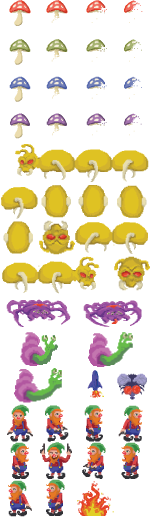
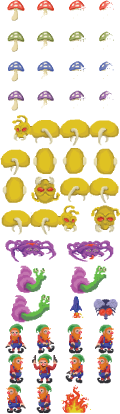
change sprites

diff --git a/App/js/constants/global-settings.js b/App/js/constants/global-settings.js
@@ -1,6 +1,6 @@
 angular.module("gameApp")
     .constant("globalSettings", {
-        spriteSize: 41,
+        spriteSize: 30,
         spriteSheetWidth: 4,
         playerAreaHeight: 6,
 
